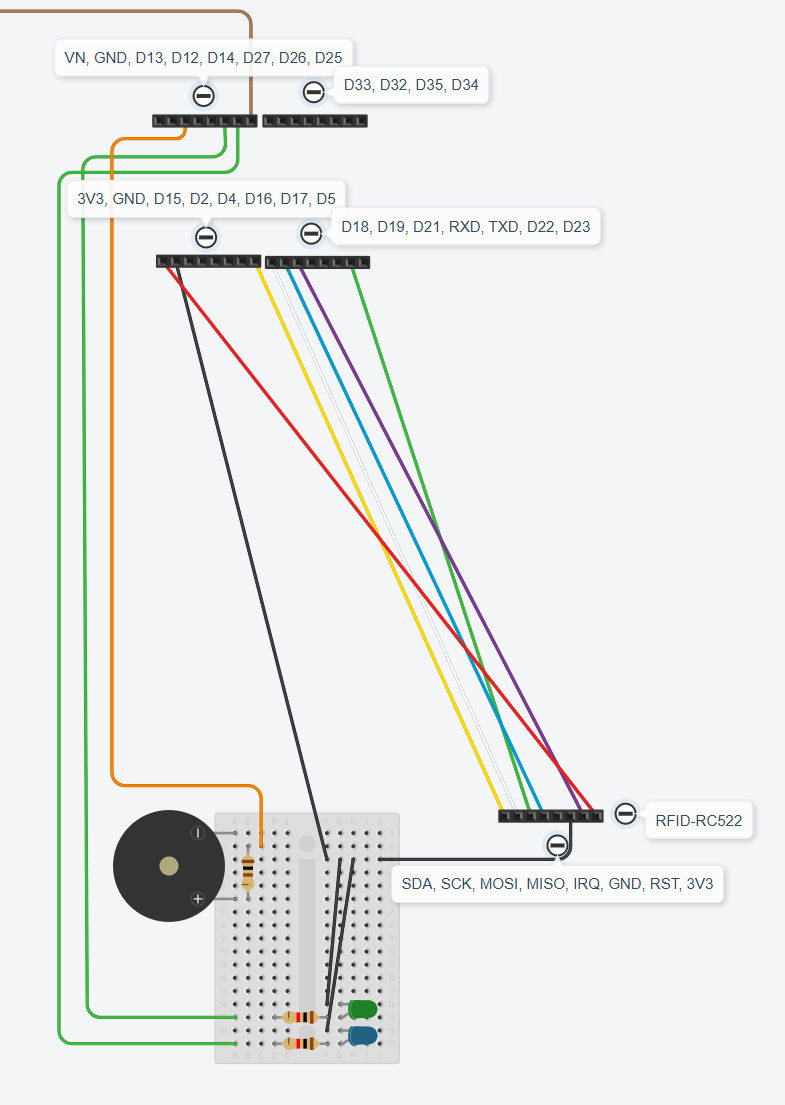
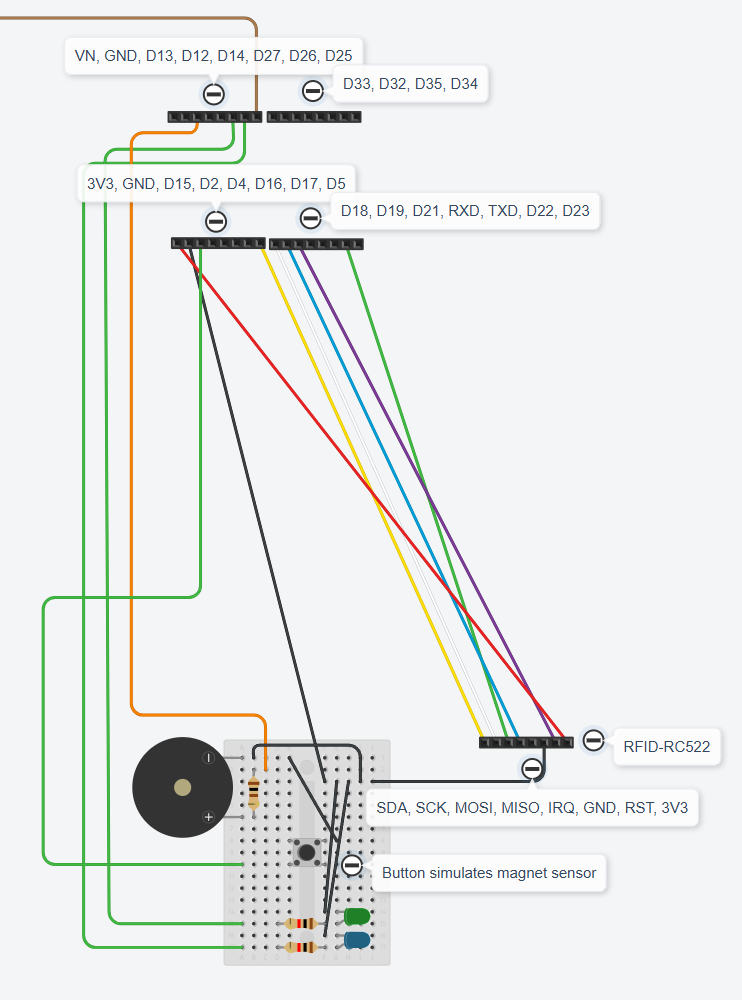
Issue #19 - Update RFID and door sensor sketch and add a page describing the various components on the sketch

Changed region(s): [[0.0, 0.0, 0.9609, 0.992]]

diff --git a/Sketches/rfid_and_door_sensor_module.md b/Sketches/rfid_and_door_sensor_module.md
@@ -1,0 +1,22 @@
+# ESP32 WROOM 32D - RFID and door sensor module
+
+RFID and door sensor module is complete on breadboards.
+
+![Tinkercad sketch](rfid_and_door_sensor_module.png)
+
+## ESP32 WROOM 32D board is visualized as four 8-pin headers in the sketch.
+ - D25 is used to send a signal to the display and switch module to open the door. This is the brown wire going out of the sketch into D33 of the other ESP WROOM 32D board.
+ - D13 is the orange wire going to through a 100Ω resistor to the + input of the buzzer.
+ - D26 is the green wire going through a 1kΩ resistor to the blue LED. This LED is blinking 1s on and 3s off to indicate the the RFID sensor is alive.
+ - D27 is the green wire going through a 1kΩ resistor to the green LED. This LED turns on for 1s when a valid RFID card is presented to indicate that access to the door is granted.
+ - D15 is the green wire going to the magnet sensor's + pin. It's simulated with a push button in this Tinkercad sketch.
+
+## RFID-RC522 module is visualized as an 8-pin header in the sketch.
+ - SDA is the yellow wire connected to the ESP32 pin D5
+ - SCK is the white wire connected to the ESP32 pin D18
+ - MOSI is the green wire connected to the ESP32 pin D22
+ - MISO is the blue wire connected to the ESP32 pin D19
+ - IRQ is not connected
+ - GND is the black wire connected to ESP32 GND pin through the breadboard
+ - RST is the purple wire connected to ESP32 pin D21
+ - 3V3 is the red wire connected to ESP32 3V3 output
